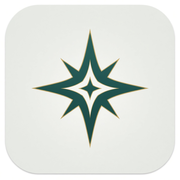
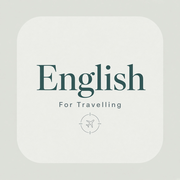
feat: rebrand formyprettymom PWA as English For Travelling
EOF

Changed region(s): [[0.1667, 0.1667, 0.8333, 0.8056], [0.0, 0.0, 1.0, 1.0]]

diff --git a/formyprettymom/index.html b/formyprettymom/index.html
@@ -8,11 +8,11 @@
     />
     <meta name="apple-mobile-web-app-capable" content="yes" />
     <meta name="apple-mobile-web-app-status-bar-style" content="default" />
-    <meta name="apple-mobile-web-app-title" content="Travel notes" />
+    <meta name="apple-mobile-web-app-title" content="Travelling" />
     <meta name="theme-color" content="#f3f5f4" />
     <meta name="robots" content="noindex, nofollow" />
     <link rel="apple-touch-icon" href="/PIO-words/formyprettymom/apple-touch-icon.png" />
-    <title>Travel notes</title>
+    <title>English For Travelling</title>
     <link rel="preconnect" href="https://fonts.googleapis.com" />
     <link rel="preconnect" href="https://fonts.gstatic.com" crossorigin />
     <link

diff --git a/formyprettymom/src/components/LanguageSelectScreen/LanguageSelectScreen.tsx b/formyprettymom/src/components/LanguageSelectScreen/LanguageSelectScreen.tsx
@@ -107,7 +107,7 @@ export const LanguageSelectScreen = ({
   <section style={SCREEN_STYLE}>
     <Header title="Язык поездки" subtitle="Английский или французский" />
     <div style={HERO_STYLE}>
-      <p style={BRAND_STYLE}>Travel notes</p>
+      <p style={BRAND_STYLE}>English For Travelling</p>
       <p style={HERO_TEXT}>
         Тихий разговорник: ресепшен, магазины, как пройти, лайнер и всё нужное
         в дороге.

diff --git a/formyprettymom/vite.config.ts b/formyprettymom/vite.config.ts
@@ -11,8 +11,8 @@ export default defineConfig({
       includeAssets: ['apple-touch-icon.png'],
       manifest: {
         id: '/PIO-words/formyprettymom/',
-        name: 'Travel notes',
-        short_name: 'Notes',
+        name: 'English For Travelling',
+        short_name: 'Travelling',
         description: 'English and French travel phrases',
         theme_color: '#f3f5f4',
         background_color: '#f3f5f4',

diff --git a/formyprettymom/src/components/HomeScreen/HomeScreen.tsx b/formyprettymom/src/components/HomeScreen/HomeScreen.tsx
@@ -93,7 +93,7 @@ export const HomeScreen = ({
         weakCount={stats.weakCount}
       />
       <div style={HERO_STYLE}>
-        <p style={BRAND_STYLE}>Travel notes</p>
+        <p style={BRAND_STYLE}>English For Travelling</p>
         <p style={HERO_TEXT}>Сдержанный разговорник для поездки</p>
       </div>
       <div style={LIST_STYLE}>

diff --git a/formyprettymom/SDD.md b/formyprettymom/SDD.md
@@ -112,14 +112,14 @@ Speech: Web Speech for `en-GB` / `fr-FR`. Favorites / weak / activity storage ke
 | Font UI | **Outfit** | Body / buttons |
 | Font display | **Fraunces** | Titles / brand |
 
-Tone: quiet travel journal — no hearts, no pink fireworks overload. Keep confetti/praise optional but toned (teal accents). Hero brand: discreet wordmark “Travel notes” / short Russian subtitle for mom.
+Tone: quiet travel journal — no hearts, no pink fireworks overload. Keep confetti/praise optional but toned (teal accents). Hero brand: discreet wordmark “English For Travelling” / short Russian subtitle for mom.
 
 PWA:
 
-- `name`: Travel notes  
-- `short_name`: Notes  
+- `name`: English For Travelling  
+- `short_name`: Travelling  
 - `theme_color` / `background_color`: `#f3f5f4`  
-- Icons: distinct from Dinara pig — elegant passport/compass mark  
+- Icons: “English For Travelling” wordmark with small compass/plane accent  
 
 ## 7. Vocabulary volume (v1 target)
 
